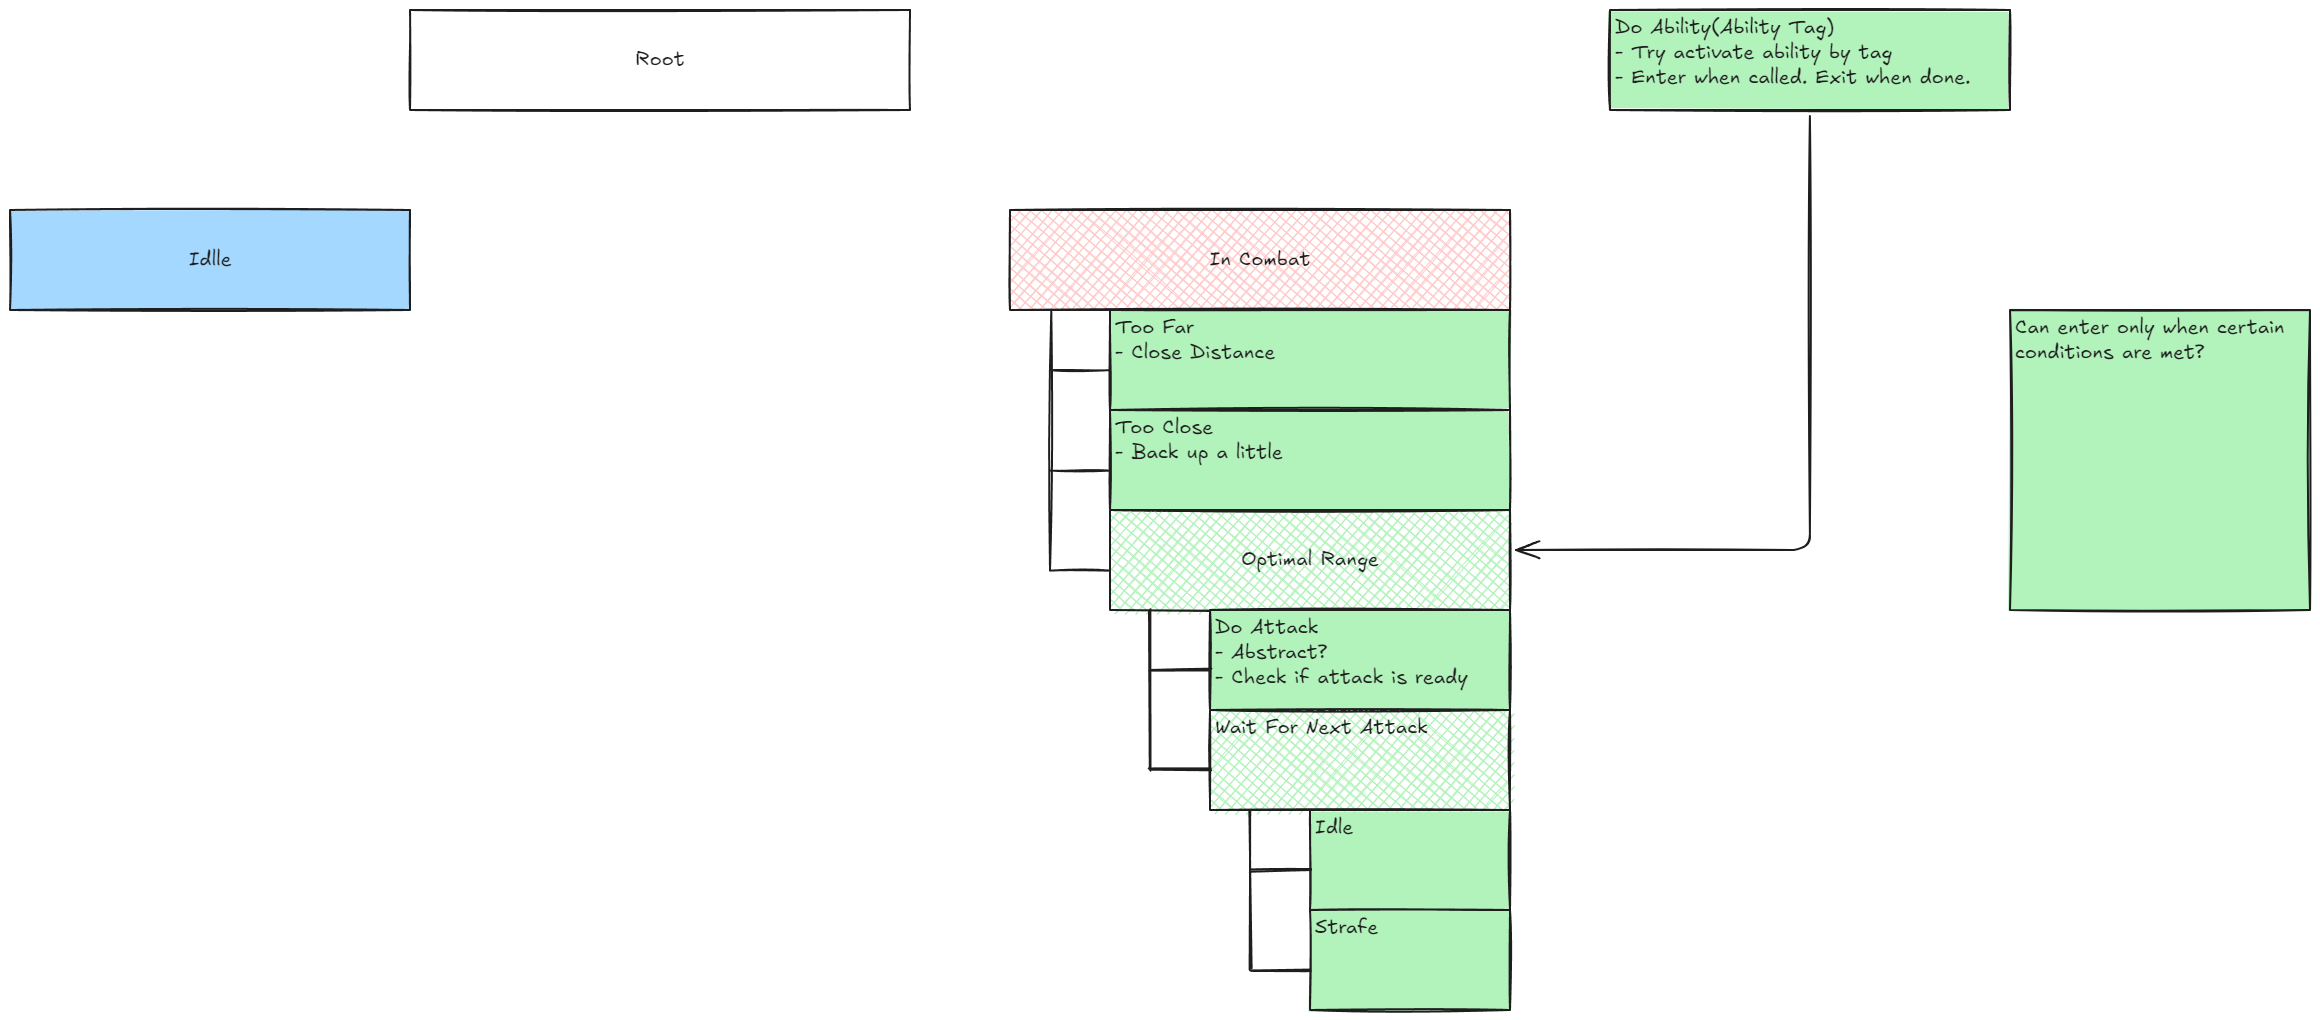
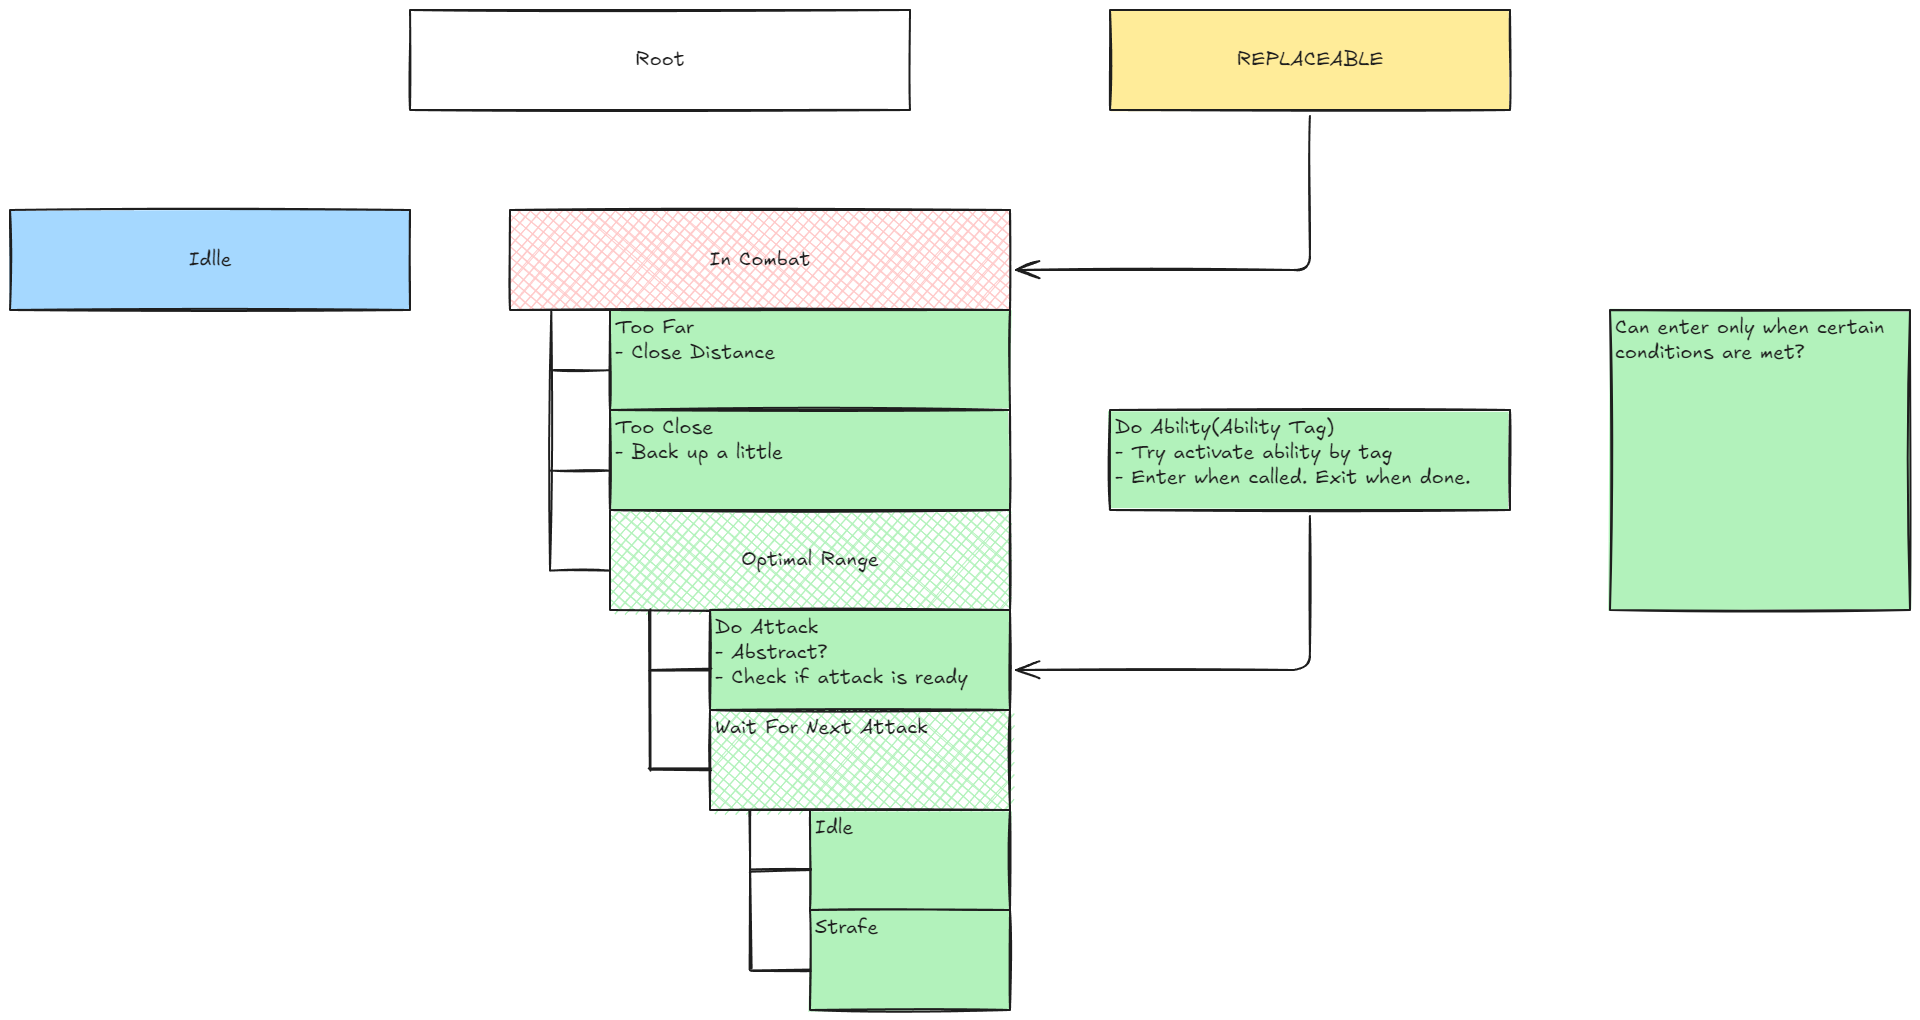
vault backup: 2026-06-07 19:40:49

diff --git a/Projects/Summer Project/Mechanics/AI Rework Graph.md b/Projects/Summer Project/Mechanics/AI Rework Graph.md
@@ -39,6 +39,8 @@ Idle ^j7EmXGYx
 
 Strafe ^qBpFacUy
 
+REPLACEABLE ^vRVC3XId
+
 %%
 ## Drawing
 ```compressed-json
@@ -58,120 +60,128 @@ rfFXErAj6cJCkIhA4mAsDrVghClryfCEHkBwzBioEWRqXiBIWeUVnkmbCCGZrtWm5S5lspZOnWbctlxU
 
[1 lines of base64/hex data omitted]
 
[2 lines of base64/hex data omitted]
 
[2 lines of base64/hex data omitted]
 
[2 lines of base64/hex data omitted]
 
[2 lines of base64/hex data omitted]
 
[2 lines of base64/hex data omitted]
 
[2 lines of base64/hex data omitted]
 
[2 lines of base64/hex data omitted]
 
[2 lines of base64/hex data omitted]
 
[2 lines of base64/hex data omitted]
 
[2 lines of base64/hex data omitted]
 
[2 lines of base64/hex data omitted]
 
[2 lines of base64/hex data omitted]
 
[2 lines of base64/hex data omitted]
 
[2 lines of base64/hex data omitted]
 
[2 lines of base64/hex data omitted]
 
[2 lines of base64/hex data omitted]
 
[2 lines of base64/hex data omitted]
 
[2 lines of base64/hex data omitted]
 
[2 lines of base64/hex data omitted]
 
[2 lines of base64/hex data omitted]
 
[2 lines of base64/hex data omitted]
 
[2 lines of base64/hex data omitted]
 
[2 lines of base64/hex data omitted]
 
[2 lines of base64/hex data omitted]
 
[2 lines of base64/hex data omitted]
 
[2 lines of base64/hex data omitted]
 
[2 lines of base64/hex data omitted]
 
[2 lines of base64/hex data omitted]
 
[2 lines of base64/hex data omitted]
 
[2 lines of base64/hex data omitted]
 
[2 lines of base64/hex data omitted]
 
[2 lines of base64/hex data omitted]
 
[2 lines of base64/hex data omitted]
 
[2 lines of base64/hex data omitted]
 
[2 lines of base64/hex data omitted]
 
[2 lines of base64/hex data omitted]
 
[2 lines of base64/hex data omitted]
 
[2 lines of base64/hex data omitted]
 
[2 lines of base64/hex data omitted]
 
[2 lines of base64/hex data omitted]
 
[2 lines of base64/hex data omitted]
 
[2 lines of base64/hex data omitted]
 
[2 lines of base64/hex data omitted]
 
[2 lines of base64/hex data omitted]
 
[2 lines of base64/hex data omitted]
 
[2 lines of base64/hex data omitted]
 
[2 lines of base64/hex data omitted]
 
[2 lines of base64/hex data omitted]
 
[2 lines of base64/hex data omitted]
 
[2 lines of base64/hex data omitted]
 
[2 lines of base64/hex data omitted]
 
[2 lines of base64/hex data omitted]
 
[2 lines of base64/hex data omitted]
 
[2 lines of base64/hex data omitted]
 
[2 lines of base64/hex data omitted]
 
[2 lines of base64/hex data omitted]
 
[2 lines of base64/hex data omitted]
 
[2 lines of base64/hex data omitted]
+
[1 lines of base64/hex data omitted]
+
[1 lines of base64/hex data omitted]
+
[1 lines of base64/hex data omitted]
+
[1 lines of base64/hex data omitted]
 ```
 %%
